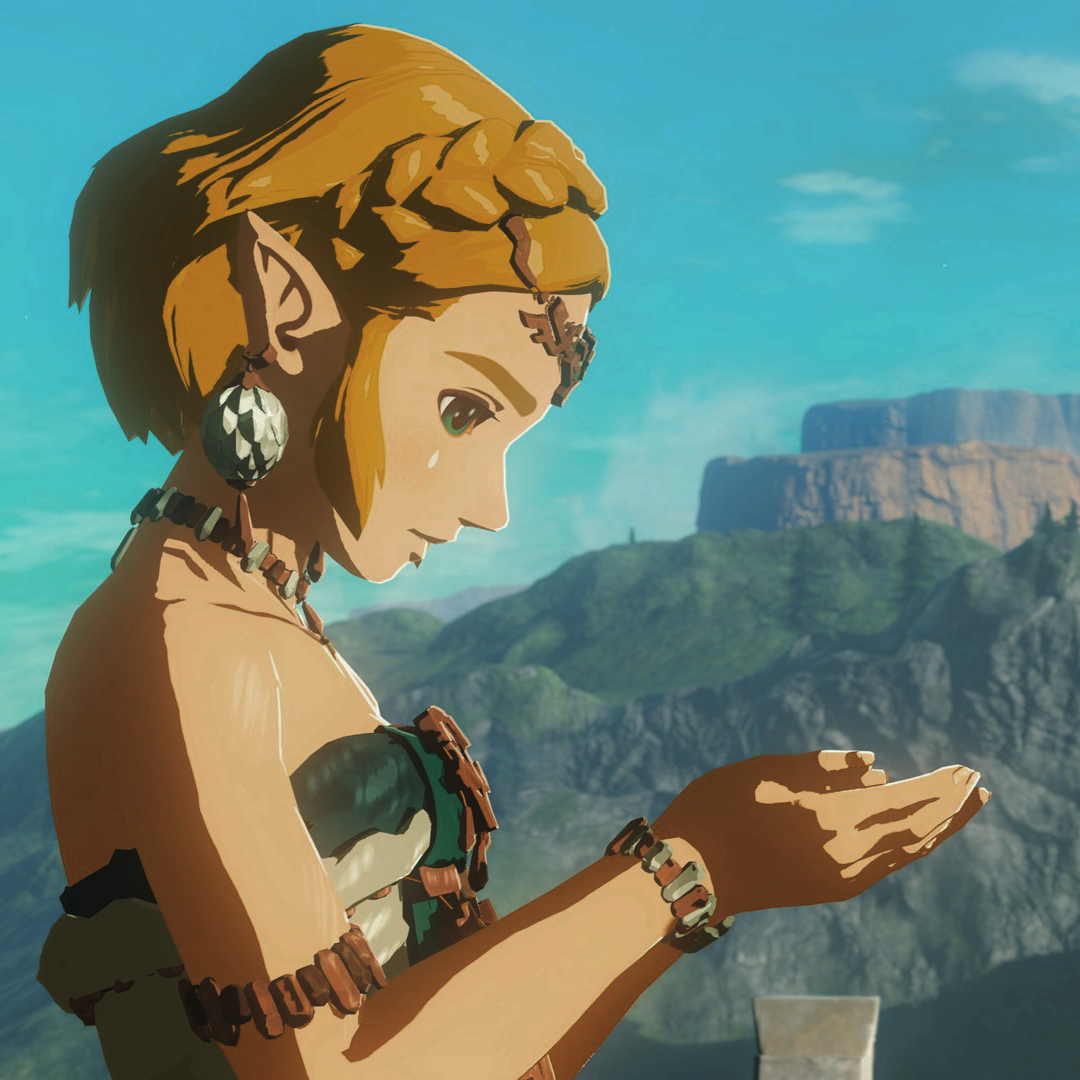
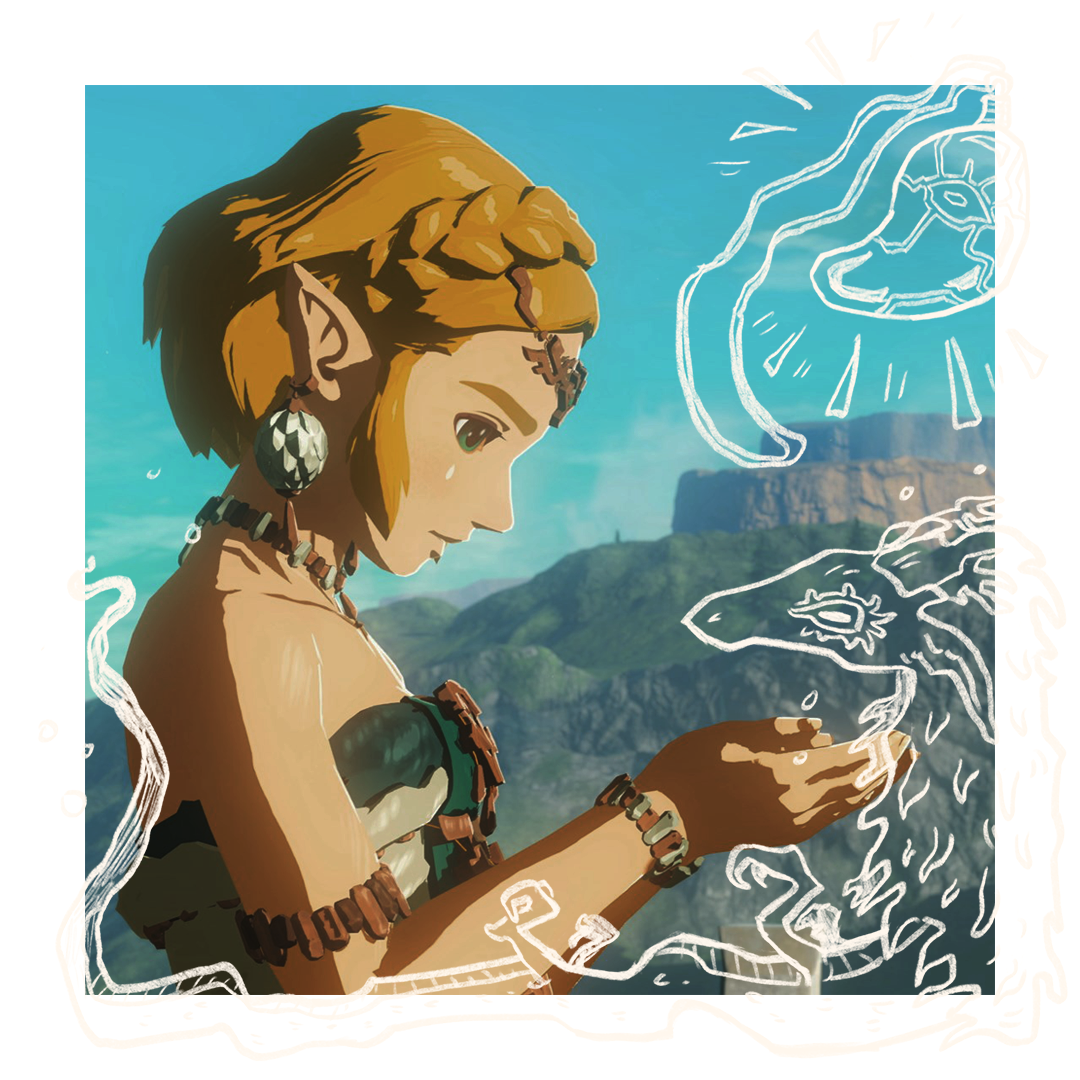
Added illustrations

diff --git a/totk.html b/totk.html
@@ -19,7 +19,7 @@
                     </nav>
     <body class="container">
         <article class="row">
-            <div class="nine columns">
+            <div class="nine columns">1
                 <div><h1 id="maintitle">TEARS <br>OF THE <br>KINGDOM</h1></div>
             </div>
 
@@ -28,10 +28,13 @@
             </div>
         </article>
                 <div class="content" id="characters">
-                    <h1>CHARACTERS</h1>
+
+                      
+
+                    <h1 id="characterstitle">CHARACTERS</h1>
                         <article class="row">
                             <div class="three columns">
-                                <img class="u-full-width" src="totk.images/link.jpg" alt="">
+                                <img class="u-full-width"src="totk.images/link.jpg" alt="">
                             </div>
 
                             <div class="three columns">
@@ -102,7 +105,7 @@
                 <div class="content" id="part-1">
                                 <article class="row">
                                     <div class="six columns">
-                                        <img class="u-full-width" src="totk.images/storytelliing imgs/link reaches for zelda.png">
+                                        <img class="u-full-width" src="totk.images/storytelliing imgs/link reaches for zelda with doodles.png">
                                     </div>
 
                                     <div class="six columns">
@@ -121,7 +124,7 @@
                                     </div>
 
                                     <div class="six columns">
-                                       <img class="u-full-width" src="totk.images/storytelliing imgs/sidon and link.png">
+                                       <img class="u-full-width" src="totk.images/storytelliing imgs/sidon and link with doodles.png">
                                     </div>
                                 </article>
                 </div>  
@@ -132,7 +135,7 @@
                 <div class="content" id="part-3">
                                 <article class="row">
                                     <div class="six columns">
-                                        <img class="u-full-width" src="totk.images/storytelliing imgs/phantom ganon square.png">
+                                        <img class="u-full-width" src="totk.images/storytelliing imgs/phantom ganonwith doodles.png">
                                     </div>
 
                                     <div class="six columns">
@@ -151,7 +154,7 @@
                                     </div>
 
                                     <div class="six columns">
-                                       <img class="u-full-width" src="totk.images/storytelliing imgs/evil ganon.png">
+                                       <img class="u-full-width" src="totk.images/storytelliing imgs/evil ganon with doodles.png">
                                     </div>
                                 </article>
                 </div>  
@@ -162,7 +165,7 @@
                 <div class="content" id="part-5">
                                 <article class="row">
                                     <div class="six columns">
-                                        <img class="u-full-width" src="totk.images/storytelliing imgs/zelda holding the stone side profile.png">
+                                        <img class="u-full-width" src="totk.images/storytelliing imgs/zelda holding the stone side profile with doodles.png">
                                     </div>
 
                                     <div class="six columns">
@@ -181,7 +184,7 @@
                                     </div>
 
                                     <div class="six columns">
-                                       <img class="u-full-width" src="totk.images/storytelliing imgs/demon dragon.jpg">
+                                       <img class="u-full-width" src="totk.images/storytelliing imgs/demon dragon with doodles.png">
                                     </div>
                                 </article>
                 </div>  
@@ -196,7 +199,7 @@
                                 <ul>
                                     <li><a href="https://www.nintendo.com/us/?srsltid=AfmBOoo8sBNTN_Rp--KF65WdEWgaFpgd9zAHAT7JpgfSwX7cqIgLU7N-">Nintendo Official Site</a></li>
                                     <li><a href="https://zelda.nintendo.com/tears-of-the-kingdom/">Learn More About TOTK</a></li>
-                                    <li><a href="#">Image Credits For This Site</a></li>
+                                    <li><a href="sources.html">Credits For This Site</a></li>
                                 </ul>
                         </div>
 

diff --git a/sources.html b/sources.html
@@ -1,0 +1,40 @@
+<!DOCTYPE html>
+<html lang="en">
+<head>
+    <meta charset="UTF-8" />
+    <title>totk</title>
+    <link href= "CSS/normalize.css" rel="stylesheet" type="text/css">
+    <link href="CSS/skeleton.css" rel="stylesheet" type="text/css">
+    <link href="CSS/sourcesstyle.css" rel="stylesheet" type="text/css">
+    <link rel="preconnect" href="https://fonts.googleapis.com">
+    <link rel="preconnect" href="https://fonts.gstatic.com" crossorigin>
+    <link href="https://fonts.googleapis.com/css2?family=League+Gothic&family=Sofia+Sans+Condensed:ital,wght@0,1..1000;1,1..1000&display=swap" rel="stylesheet">
+</head>
+
+                    <nav class="navbar">
+                        <div class="navdiv">
+                            <div class="logo"> <a href="#"><img id="logo" src="totk.images/zelda logo.png" alt=""></a></div>
+                        </div>
+                    </nav>
+                    
+    <body class="container">
+        <div>
+            <h3>Image Sources</h3>
+                <ul>
+                    <li><a href="https://zelda.fandom.com/wiki/Gallery:Tears_of_the_Kingdom">Character Images: Zelda Wiki</a></li>
+                    <li><a href="https://www.rpgfan.com/gallery/the-legend-of-zelda-breath-of-the-wild-2-screenshots/">Story Images: RPG Fan</a></li>
+                </ul>
+        </div>
+
+
+        <div>
+            <h3>Information Sources</h3>
+                <ul>
+                    <li><a href="https://www.rpgfan.com/gallery/the-legend-of-zelda-breath-of-the-wild-2-screenshots/">Comic Book Rant</a></li>
+                    <li><a href="https://en.wikipedia.org/wiki/The_Legend_of_Zelda:_Tears_of_the_Kingdom#Plot">Wikipedia</a></li>
+                </ul>
+        </div>
+
+    </body>
+
+</html>

diff --git a/CSS/sourcesstyle.css b/CSS/sourcesstyle.css
@@ -1,0 +1,61 @@
+body{
+    position: relative;
+    z-index: 2;
+    color: rgb(255, 247, 237);
+    background-color: rgb(42, 31, 26);
+    margin-top:10px;
+}
+
+.container{
+    margin:15%;
+}
+
+
+h3{
+    font-family: "League Gothic", sans-serif;
+    font-size: 5em;
+}
+
+ul{
+    text-decoration:none;
+}
+
+li{
+    list-style-type: none;
+    font-family: "Sofia Sans Condensed";
+    line-height: 100%;
+    font-size:1.5em;
+}
+
+a{
+    color:  rgb(255, 247, 237);
+    text-decoration: none;
+}
+
+a:hover{
+    color: rgb(253, 239, 136);
+}
+
+.navbar{
+    position: fixed;
+    display: inline-block;
+    top: 0px;
+    left: 0px;
+    height: 80px;
+    width: 100%;
+    z-index: 5;
+    background-color: black;
+    background-image: url('/totk.images/swirly.pattern.jpeg');
+    background-size: cover;
+}
+
+.navdiv{
+    align-items: center;
+    text-align: right;
+    margin-right: 1%;
+}
+
+#logo{
+    scale: 75%;
+}
+

diff --git a/CSS/customtotk.css b/CSS/customtotk.css
@@ -111,17 +111,27 @@ li{
 
 #spoiler{
     scale: 50%;
+    -webkit-animation: spin 2s linear infinite;
+    animation: spin 7s linear infinite;
 }
 
 #maintitle{
     position: relative;
     top: -12rem;
-    color: rgb(42, 31, 26);
+    color:rgb(255, 247, 237);
 }
 
+#characterstitle{
+    margin-bottom: 20%;
+}
 
 #logo{
     scale: 75%;
+}
+
+#mastersword{
+    position: relative;
+    z-index: 6;
 }
 
 
@@ -138,3 +148,18 @@ li{
 .educational {
     font-size: 1em;
 }
+
+
+
+
+@-webkit-keyframes spin {
+  0% { -webkit-transform: rotate(0deg); }
+  100% { -webkit-transform: rotate(360deg); }
+}
+
+@keyframes spin {
+  0% { transform: rotate(0deg); }
+  100% { transform: rotate(360deg); }
+}
+
+
